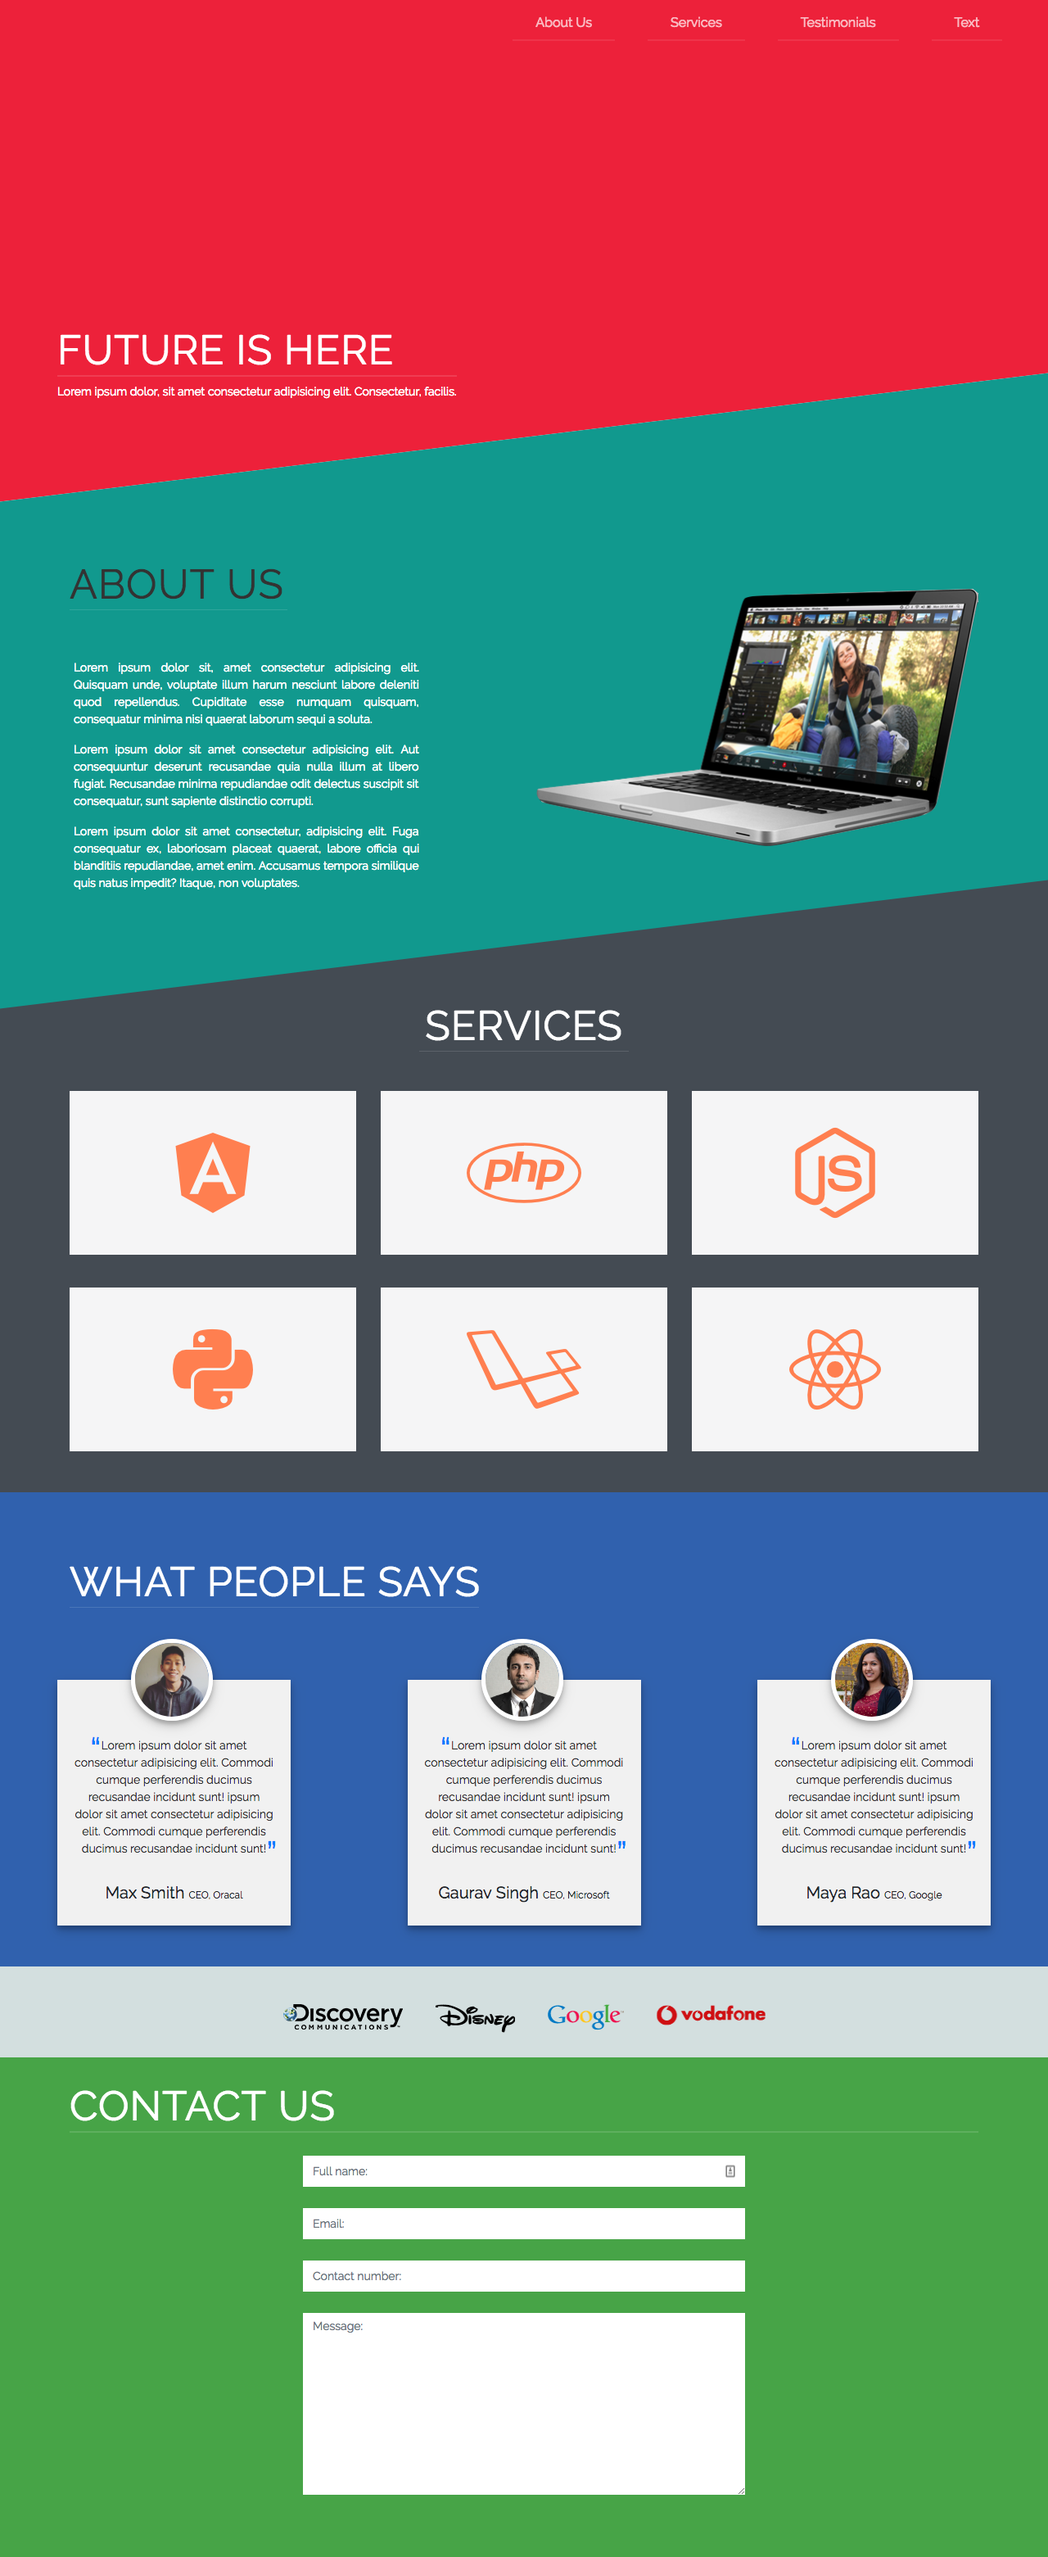
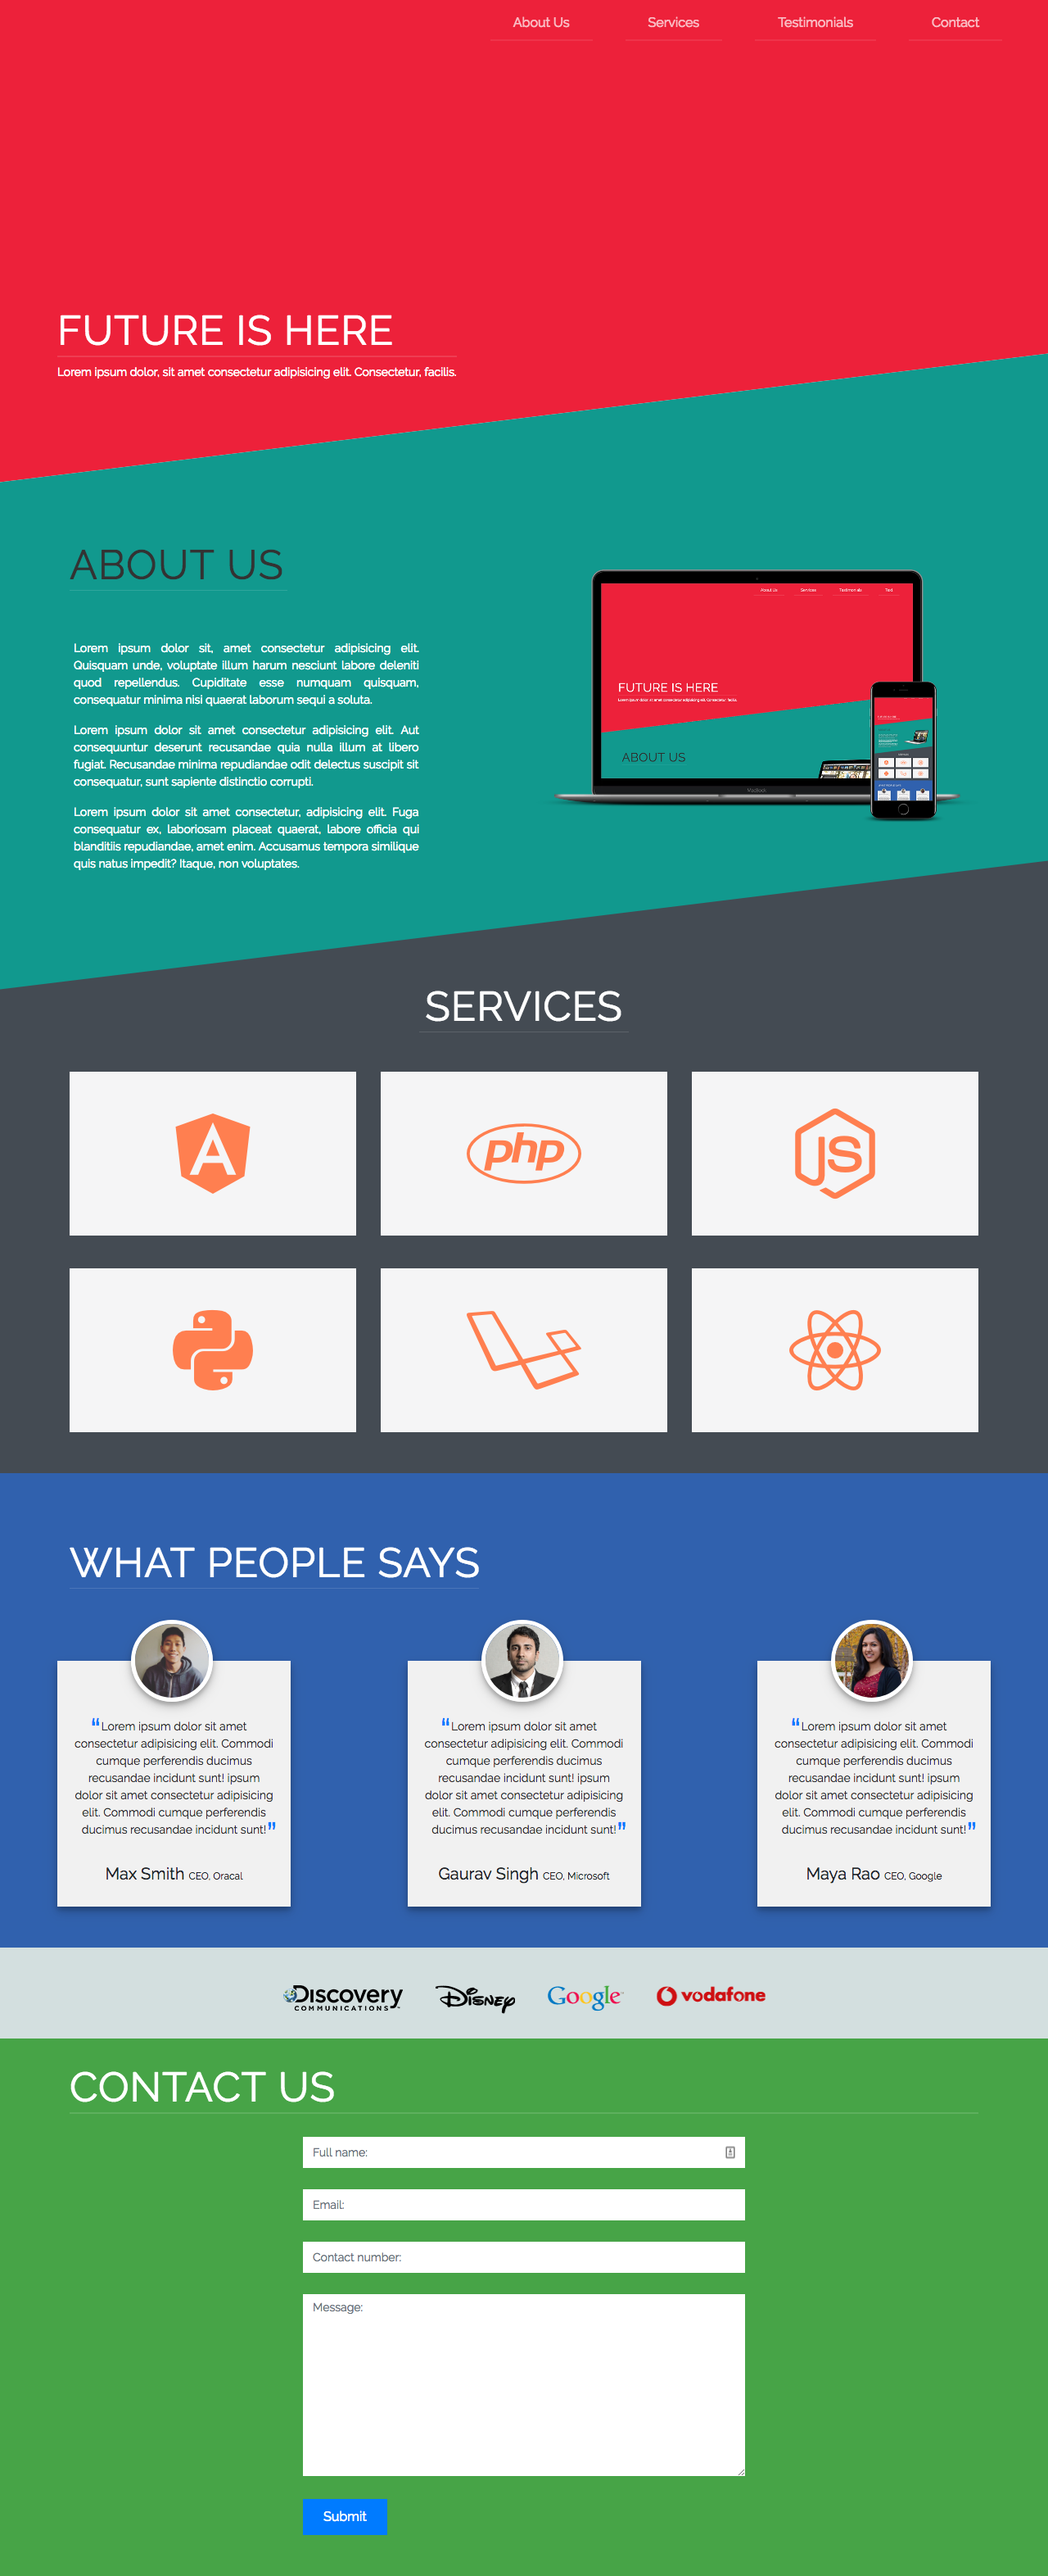
added menu

Changed region(s): [[0.0, 0.1243, 1.0, 0.9321], [0.2812, 0.9632, 0.7188, 0.9942]]

diff --git a/index.html b/index.html
@@ -25,7 +25,7 @@
     <section id="top-nav">
         <div class="container">
             <div class="row">
-                .<nav class="navbar navbar-expand-lg fixed-top">
+                <nav class="navbar navbar-expand-lg fixed-top">
                     <button class="navbar-toggler" data-target="#my-nav" data-toggle="collapse">
                         <span class="navbar-toggler-icon"></span>
                     </button>
@@ -44,7 +44,7 @@
                             </li>
 
                             <li class="nav-item">
-                                    <a class="nav-link" href="#">Text</a>
+                                    <a class="nav-link" href="#contact">Contact</a>
                             </li>
 
                         </ul>
@@ -250,8 +250,15 @@
                         <div class="form-group">
                                 <textarea name="" id="" class="form-control" rows="10" placeholder="Message:"></textarea>
                         </div>
+
+                        <div class="form-group">
+                           
+                            <input id="my-input" class="btn btn-primary" type="button" value="Submit">
+                        </div>
                     </form>
-                        <div class="btn">hellow</div>
+                    
+
+                        
                 </div>
             </div>
         </div>

diff --git a/style.css b/style.css
@@ -300,13 +300,17 @@ p {
 /**************Contact***********/
 
 #contact {
-    padding: 30px 0px;
-    width: 100%;
+    padding: 30px 0px 50px;
+    min-width: 100%;
     background-color: #47a447;
 }
 
+#contact .col-md-6{
+    min-height: 100%;
+}
+
 form {
-    padding: 20px 0px;
+    padding: 20px 0px 20px;
 }
 
 .form-group {
@@ -320,10 +324,12 @@ form {
     font-size: 14px;
 }
 
-#contact .btn {
-    z-index: 2;
-    background-color: red !important;
+.form-group .btn.btn-primary {
+    margin-top: 100px !important;
+    opacity: 1;
+    
 }
+
 
 
 
